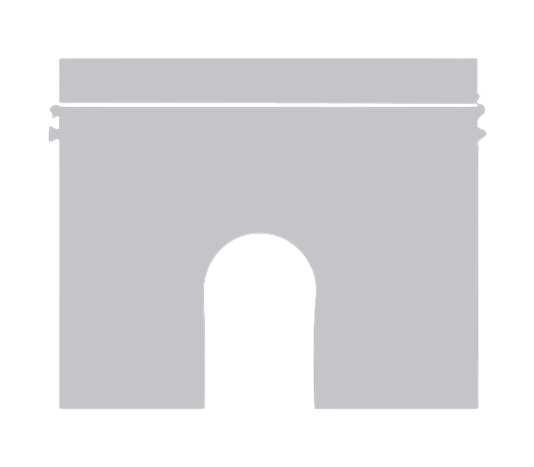
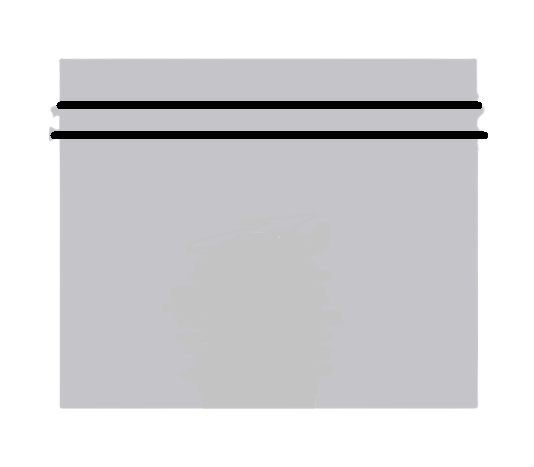
ya se mueve por lo menos

Changed region(s): [[0.3596, 0.4797, 0.5993, 0.8994], [0.0899, 0.2698, 0.9288, 0.2998], [0.0899, 0.2099, 0.8989, 0.2398]]

diff --git a/main.py b/main.py
@@ -79,22 +79,28 @@ def draw_cuerpo():
     screen.blit(cuerpo_image, (360, 150))  # Cilindro
     pygame.draw.rect(screen, background_color, (365, 205, 70, 340))  # Interior del cilindro
 #valvula cuerpo del piston    
+def calcular_inclinacion_piston(angulo_ciguenal):
+    if angulo_ciguenal <= math.pi:
+        inclinacion_maxima = (angulo_ciguenal / math.pi) * 12  # Aumenta la inclinación hacia la izquierda
+    else:
+        inclinacion_maxima = (2 * math.pi - angulo_ciguenal) / math.pi * 12  # Aumenta la inclinación hacia la derecha
+    return inclinacion_maxima
 def draw_cilindro(x, y, crankshaft_angle):
     amplitud_x = 50
     amplitud_y = 25
-    inclinacion_maxima = 10  # Grados de inclinación máxima
-    velocidad_inclinacion = 1.0  # Ajusta la velocidad de cambio de inclinación
+    velocidad_inclinacion = 2.0  # Ajusta la velocidad de cambio de inclinación
 
+    # Calcula la inclinación en función del ángulo del cigüeñal
     if crankshaft_angle <= math.pi:
         x_cilindro = 0  # En el punto muerto superior
         y_cilindro = -amplitud_y * math.sin(crankshaft_angle)
-        angulo_inclinacion = crankshaft_angle / math.pi * inclinacion_maxima
+        inclinacion_maxima = (crankshaft_angle / math.pi) * 10  # Aumenta la inclinación hacia la izquierda
     else:
-        x_cilindro = amplitud_x * math.sin(crankshaft_angle)
-        y_cilindro = 0  # En el punto muerto inferior
-        angulo_inclinacion = (2 * math.pi - crankshaft_angle) / math.pi * inclinacion_maxima
+        x_cilindro = 0  # No hay movimiento horizontal
+        y_cilindro = -amplitud_y * math.sin(crankshaft_angle)
+        inclinacion_maxima = (2 * math.pi - crankshaft_angle) / math.pi * 10  # Aumenta la inclinación hacia la derecha
 
-    rotated_cylinder = pygame.transform.rotate(cylinder_image, angulo_inclinacion)
+    rotated_cylinder = pygame.transform.rotate(cylinder_image, inclinacion_maxima)
     screen.blit(rotated_cylinder, (x + x_cilindro, y + y_cilindro))
     pygame.draw.rect(screen, background_color, (365, 205, 70, 340))
 
@@ -107,13 +113,39 @@ def draw_cilindro(x, y, crankshaft_angle):
     return crankshaft_angle
 #cabeza del piston
 def draw_piston():
-    screen.blit(piston_image, (560, 299))  
+    amplitud_y = 30  # Ajusta la amplitud vertical según tus necesidades
+    
+
+    # Calcula la posición vertical del pistón en función del ángulo del cigüeñal
+    if crankshaft_angle <= math.pi:
+        y_piston = amplitud_y * math.sin(crankshaft_angle)
+    else:
+        y_piston = -amplitud_y * math.sin(crankshaft_angle)
+
+    screen.blit(piston_image, (560, 299 + y_piston))
     pygame.draw.rect(screen, background_color, (365, 205, 70, 340))
 #cigueñal    
 def draw_polea():
     screen.blit(polea_image, (575, 510))  # Cilindro
     pygame.draw.rect(screen, background_color, (365, 205, 70, 340))
+def draw_polea_rotating(polea_image, polea_angle):
+   # Obtiene el rectángulo que rodea la imagen de la polea
+    polea_rect = polea_image.get_rect()
     
+    # Calcula el centro de la polea
+    polea_center = polea_rect.center
+    
+    # Rota la imagen de la polea alrededor de su centro
+    polea_rotated = pygame.transform.rotate(polea_image, polea_angle)
+    
+    # Obtén el nuevo rectángulo que rodea la imagen rotada
+    polea_rotated_rect = polea_rotated.get_rect()
+    
+    # Establece el centro del rectángulo rotado en el centro original
+    polea_rotated_rect.center = polea_center
+    
+    # Dibuja la polea girando en su propio eje
+    screen.blit(polea_rotated, polea_rotated_rect) 
 def draw_valves():
     # Dibuja el cilindro con las válvulas de admisión y escape en las esquinas superiores
     pygame.draw.rect(screen, cylinder_color, (360, 200, 80, 350))  # Cilindro
@@ -131,10 +163,10 @@ def calcular_posicion_piston(angulo_ciguenal):
 
     return x, y
 # Parámetros para la oscilación del cuerpo del pistón
-amplitude = 50  # Amplitud del movimiento (cambia según tus necesidades)
-frequency = 0.01  # Frecuencia de oscilación (cambia según tus necesidades)
+amplitude = 20  # Amplitud del movimiento (cambia según tus necesidades)
+frequency = 0.05  # Frecuencia de oscilación (cambia según tus necesidades)
 time = 0
-
+polea_angle = 0
 crankshaft_angle = 0
 piston_speed = 0.2  # Velocidad de movimiento del pistón más lenta
 crankshaft_length = 100
@@ -143,7 +175,7 @@ amplitude = 20
 angle = math.pi / 4  # Ángulo inicial (45 grados)
 angular_velocity = 0.1
 running = True
-
+clock = pygame.time.Clock()
 while running:
     
     for event in pygame.event.get():
@@ -171,7 +203,8 @@ while running:
     x, y = calcular_posicion_piston(crankshaft_angle)
     # Dibuja las válvulas de admisión y escape
     draw_valves()
-
+    
+    
     # Actualizar el estado del motor
     frame_count += 1
     if frame_count > state_duration:
@@ -191,13 +224,17 @@ while running:
 
     # Dibuja el pistón y la biela en los cilindros
     
-    draw_piston()
+    polea_angle += 0.02
     draw_valves()
     draw_cuerpo()
     crankshaft_angle=draw_cilindro(520, 350,crankshaft_angle)
-    draw_polea()
+    # Velocidad de rotación de la polea (ajusta según tus necesidades)
+    draw_polea_rotating(polea_image, polea_angle)
+    draw_piston()
     valvula_der()
     valvula_izq()
+    
     pygame.display.update()
+    clock.tick(60)
 pygame.quit()
 sys.exit()

diff --git a/goal.py b/goal.py
@@ -79,23 +79,31 @@ def draw_cuerpo():
     screen.blit(cuerpo_image, (360, 150))  # Cilindro
     pygame.draw.rect(screen, background_color, (365, 205, 70, 340))  # Interior del cilindro
 #valvula cuerpo del piston    
+def calcular_inclinacion_piston(angulo_ciguenal):
+    amplitud_maxima = 12
+    inclinacion_maxima = amplitud_maxima * math.sin(angulo_ciguenal)
+    return inclinacion_maxima
 def draw_cilindro(x, y, crankshaft_angle):
     amplitud_x = 50
     amplitud_y = 25
-    inclinacion = 10  # Grados de inclinación máxima
-    
-    if crankshaft_angle <= math.pi:
-        x_cilindro = 0  # En el punto muerto superior
-        y_cilindro = -amplitud_y * math.sin(crankshaft_angle)
-        angulo_inclinacion = crankshaft_angle / math.pi * inclinacion
-    else:
-        x_cilindro = amplitud_x * math.sin(crankshaft_angle)
-        y_cilindro = 0  # En el punto muerto inferior
-        angulo_inclinacion = (2 * math.pi - crankshaft_angle) / math.pi * inclinacion
+    velocidad_inclinacion = 1.0  # Ajusta la velocidad de cambio de inclinación
 
-    rotated_cylinder = pygame.transform.rotate(cylinder_image, angulo_inclinacion)
+    # Calcula la inclinación en función del ángulo del cigüeñal
+    x_cilindro = 0  # En el punto muerto superior
+    y_cilindro = -amplitud_y * math.sin(crankshaft_angle)
+    inclinacion_maxima = calcular_inclinacion_piston(crankshaft_angle)
+
+    rotated_cylinder = pygame.transform.rotate(cylinder_image, inclinacion_maxima)
     screen.blit(rotated_cylinder, (x + x_cilindro, y + y_cilindro))
     pygame.draw.rect(screen, background_color, (365, 205, 70, 340))
+
+    # Ajusta el ángulo del cigüeñal para un cambio más suave
+    crankshaft_angle += velocidad_inclinacion * 0.01  # 0.01 es un valor de ajuste
+
+    if crankshaft_angle >= 2 * math.pi:
+        crankshaft_angle = 0
+
+    return crankshaft_angle
 #cabeza del piston
 def draw_piston():
     screen.blit(piston_image, (560, 299))  
@@ -145,10 +153,24 @@ while running:
     
     time += 1
     
-    
+    piston_position_x = 560 + 50 * math.sin(angle)
+    piston_position_y = 300 + amplitude * math.sin(frequency * time)
+
+    # Calcula la posición del pistón
+    piston_position = 300 - crankshaft_length * math.sin(crankshaft_angle)
+    x, y = calcular_posicion_piston(crankshaft_angle)
+
+    # Calcula la inclinación en función de la dirección del movimiento
+    if piston_position_y > 300:
+        # Si el pistón está bajando, inclínalo hacia la derecha
+        inclinacion_maxima = -angle * (180 / math.pi)  # Inclinación negativa hacia la derecha
+    else:
+        # Si el pistón está subiendo, inclínalo hacia la izquierda
+        inclinacion_maxima = angle * (180 / math.pi)  # Inclinación positiva hacia la izquierda
     
     angle += angular_velocity
-    
+    rotated_cylinder = pygame.transform.rotate(cylinder_image, inclinacion_maxima)
+    screen.blit(rotated_cylinder, (x, y))
     piston_position_x = 560 + 50 * math.sin(angle)
 
     # Actualiza el ángulo del cigüeñal
@@ -185,7 +207,7 @@ while running:
     draw_piston()
     draw_valves()
     draw_cuerpo()
-    draw_cilindro(520, 350,crankshaft_angle)
+    crankshaft_angle=draw_cilindro(520, 350,crankshaft_angle)
     draw_polea()
     valvula_der()
     valvula_izq()
